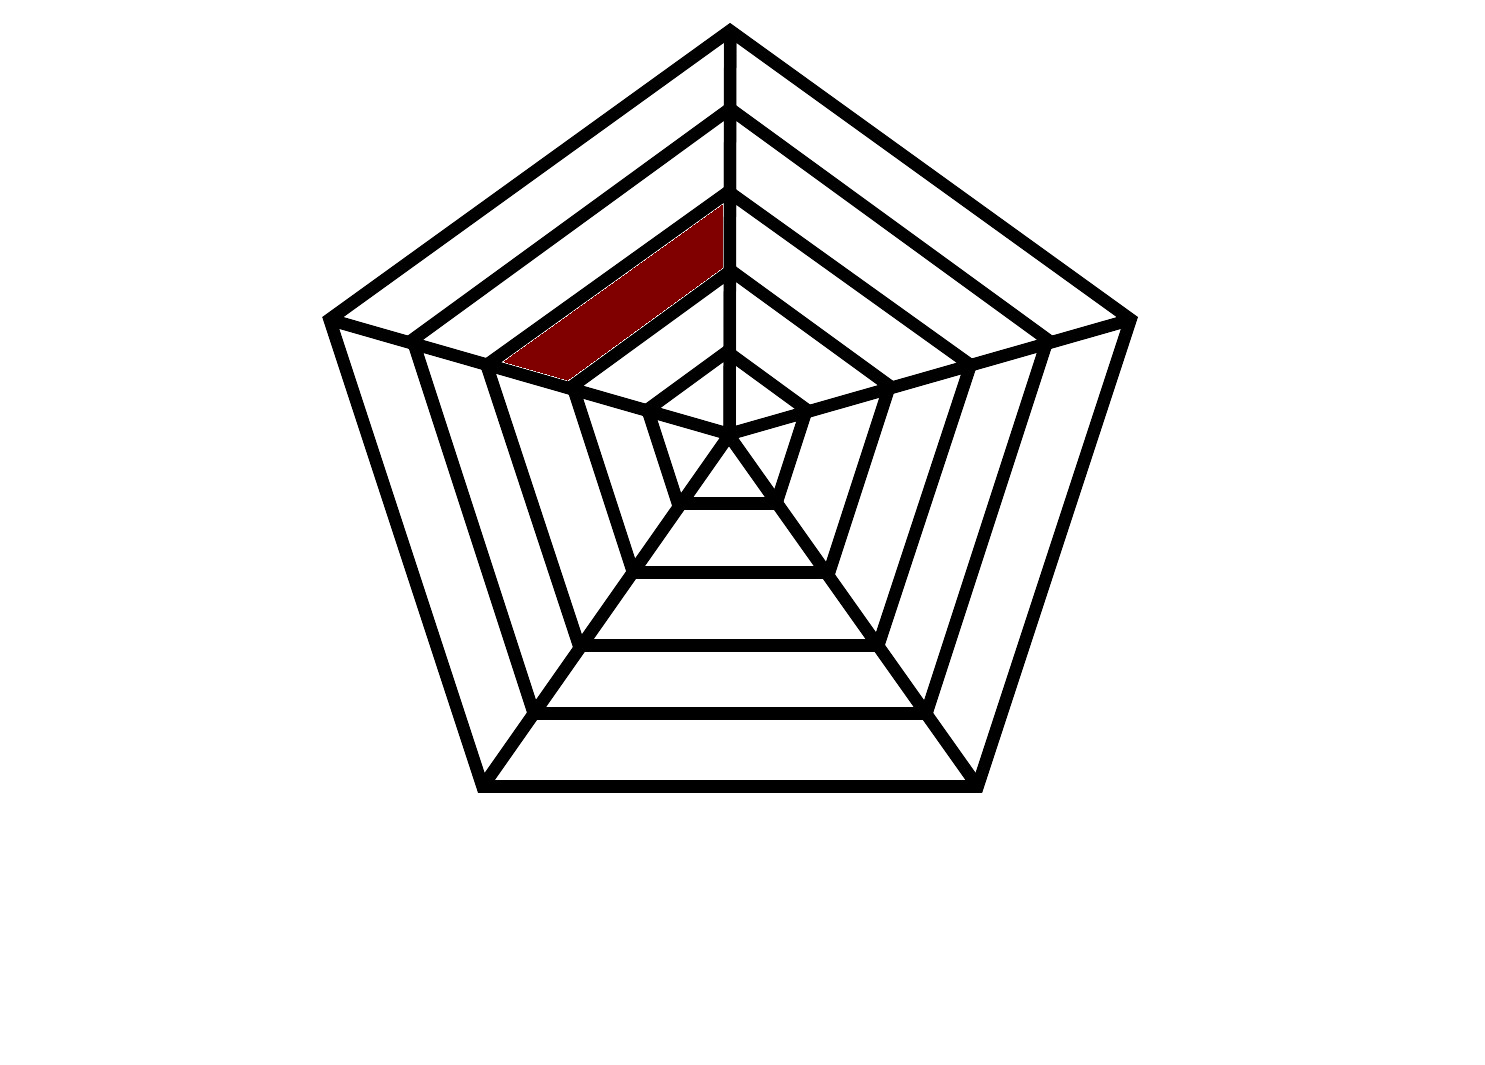
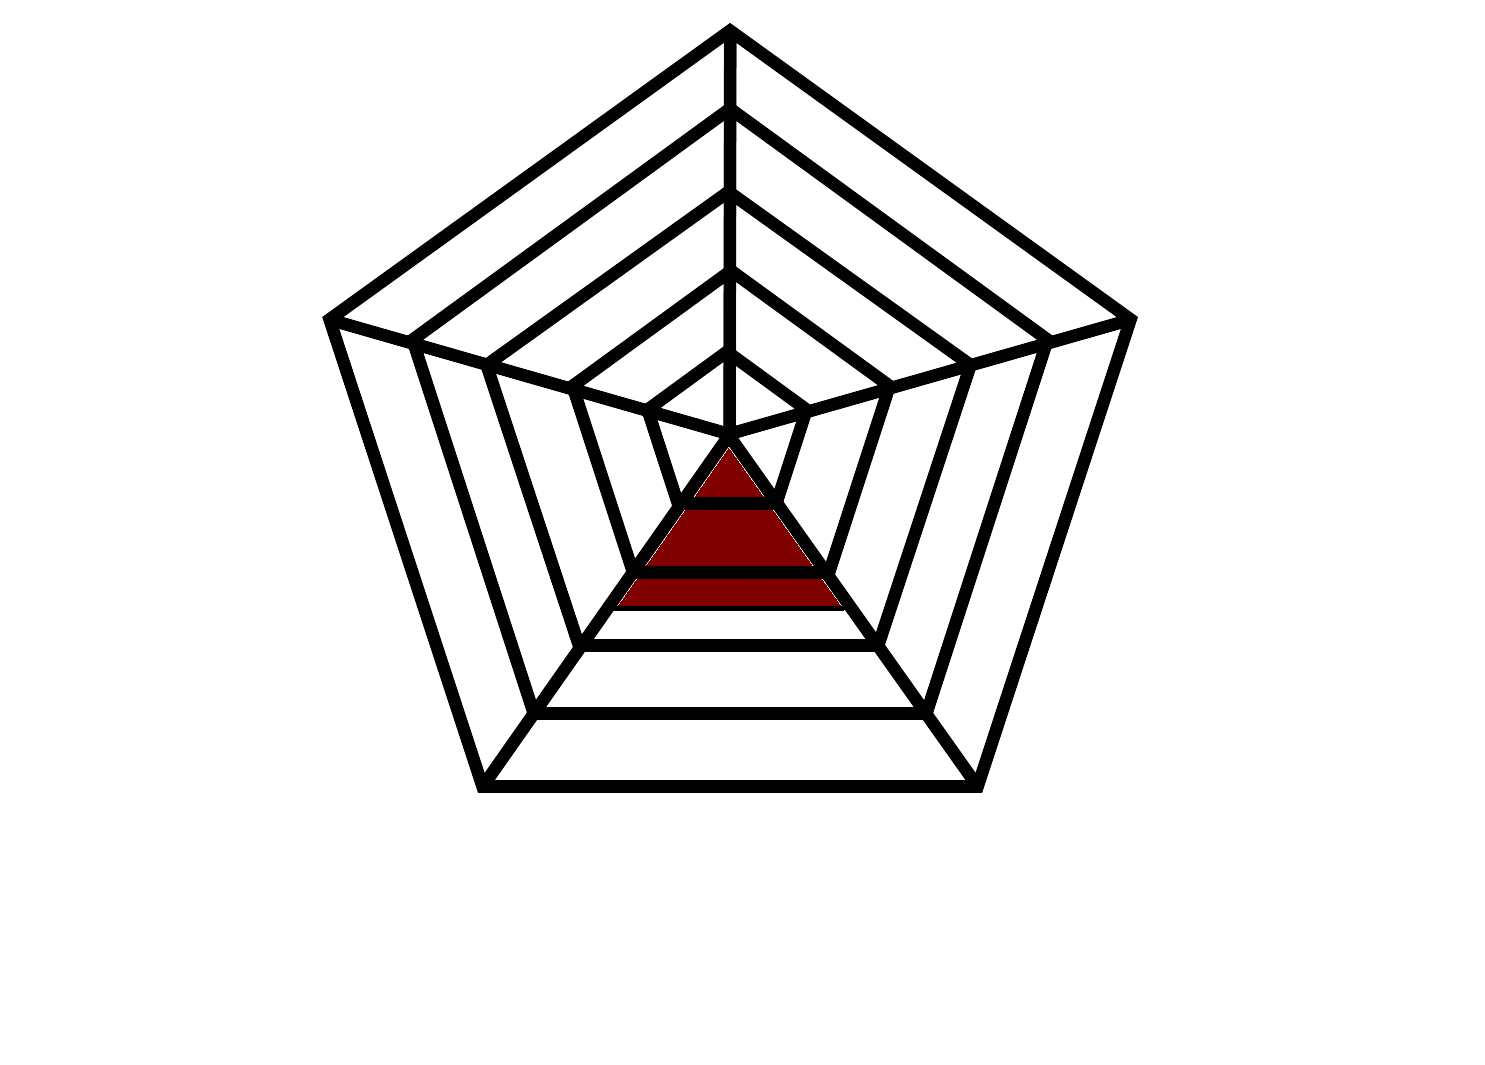
Adição da classificacao de 1 a 10 e não identificação em binários, sim em decimais.

Changed region(s): [[0.4027, 0.4338, 0.5886, 0.5887], [0.3407, 0.1859, 0.4956, 0.3718]]

diff --git a/teste.py b/teste.py
@@ -19,13 +19,14 @@ imagens_prefixo5 = carregar_imagens("imagem5_")
 # Função para encontrar e sobrepor as imagens baseadas nos valores de entrada
 def sobrepor_imagens_por_prefixo(valores, imagens):
     imagens_selecionadas = []
+    indice = 1
     for valor in valores:
-        if valor > 0 and valor <= len(imagens):
-            imagens_selecionadas.append(imagens[valor - 1])  # Ajuste da indexação
-        else:
-            imagens_selecionadas.append(None)  # ou outro valor que indique ausência de imagem
-    return imagens_selecionadas
+        if valor == 1:
+            if indice <= len(imagens):
+                imagens_selecionadas.append(imagens[indice - 1])
+        indice += 1
 
+    return imagens_selecionadas
 
 # Função para solicitar valores para cada conjunto de imagens
 def solicitar_valores_e_combinar(imagens, prefixo):
